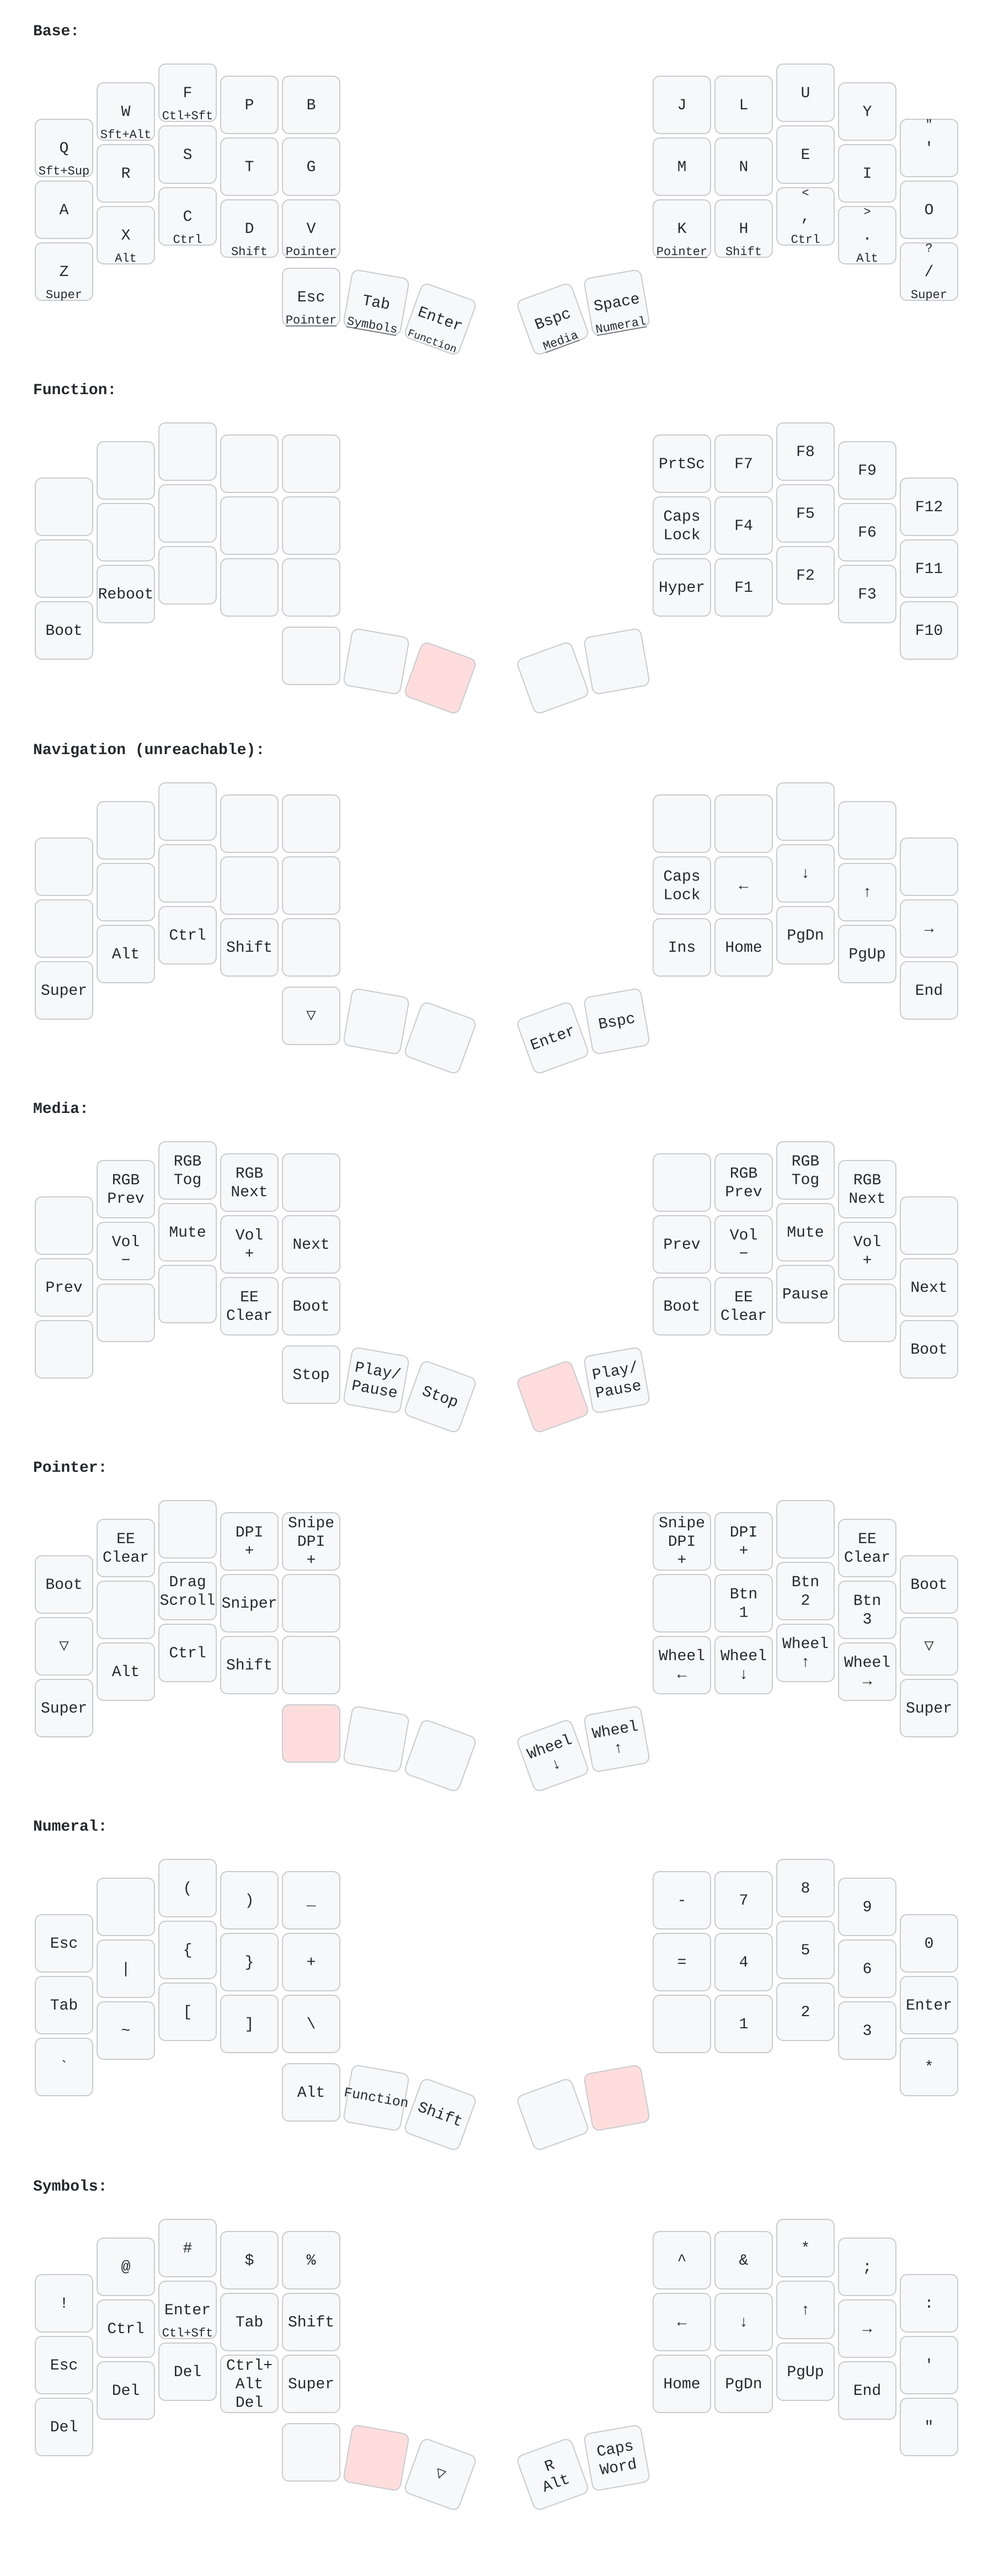
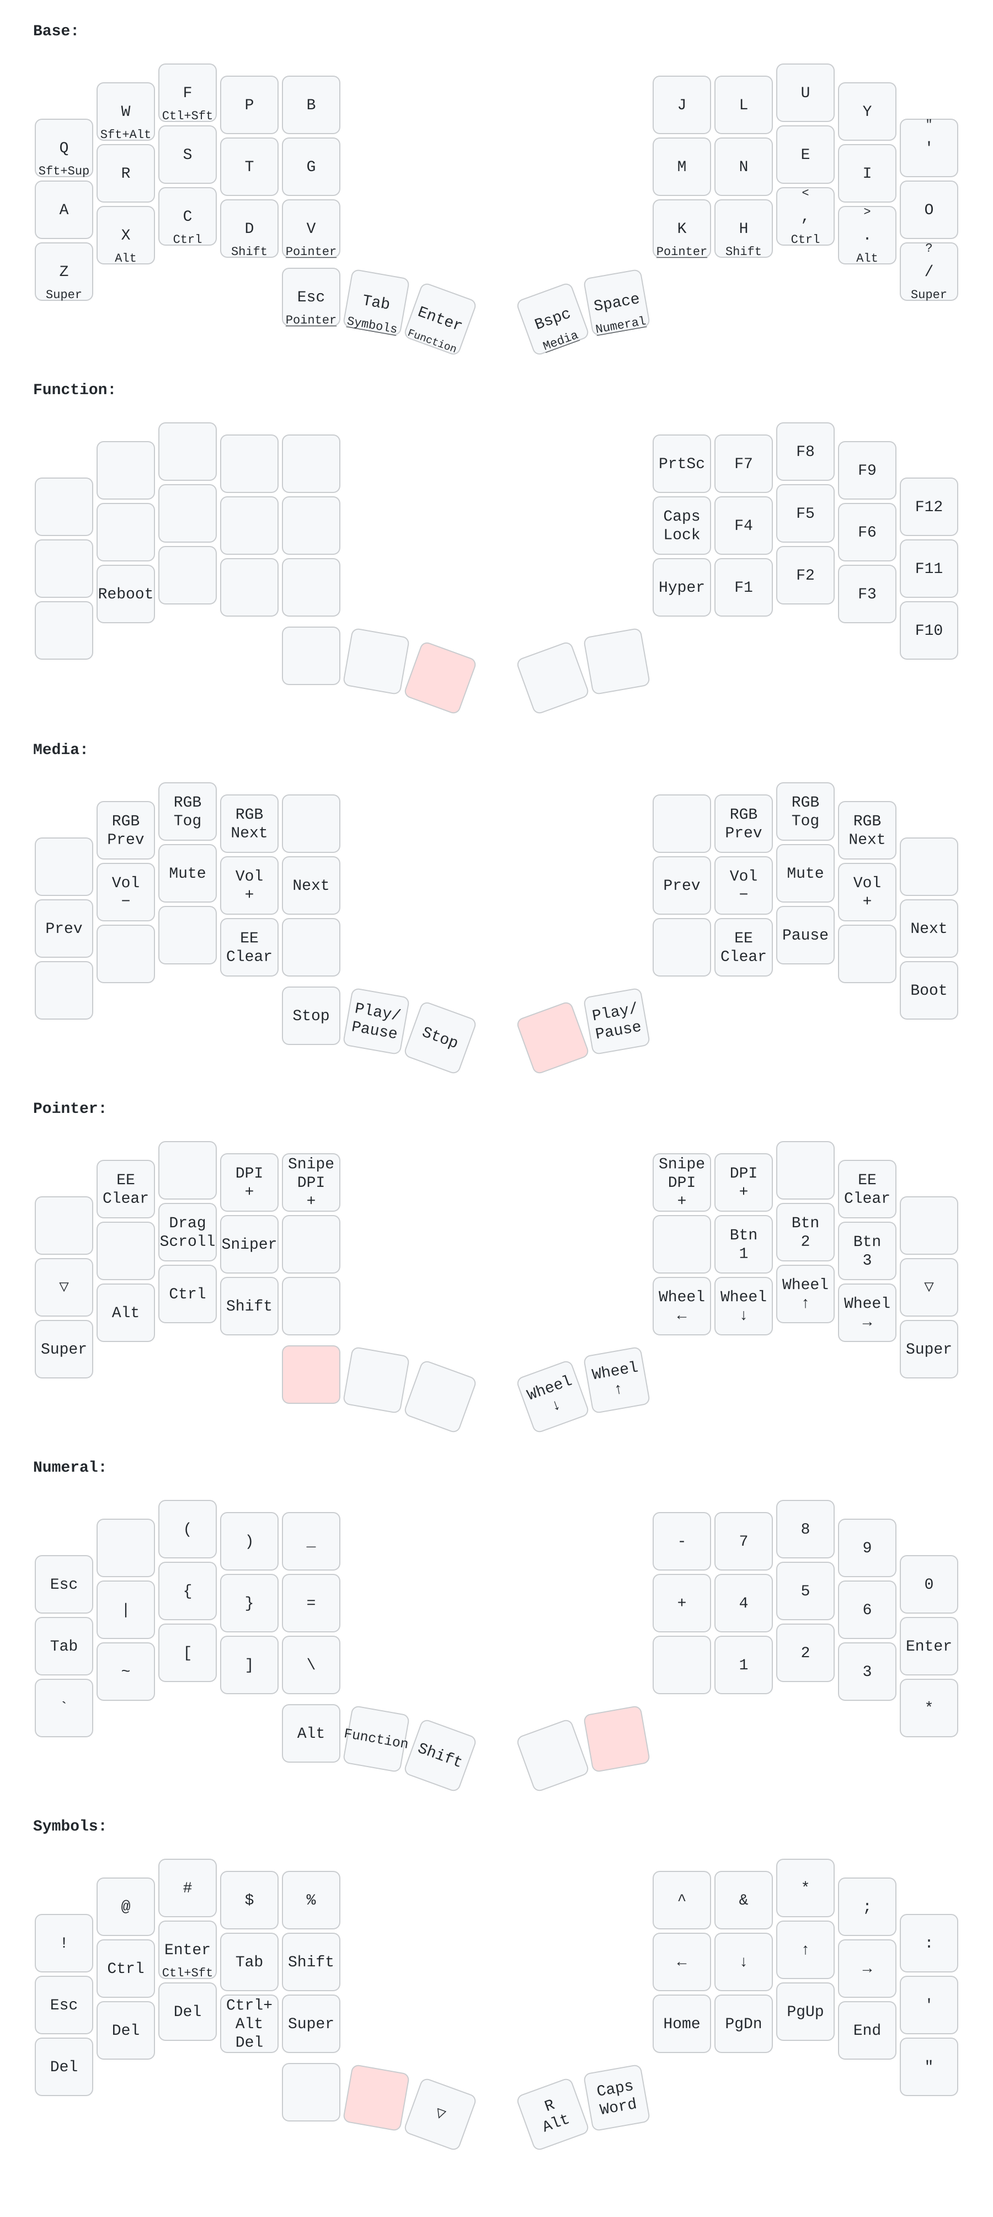
keymap: swap +/=, prune Boot keys, drop Navigation layer
- Numeral: swap + and = -- they sat either side of the home-row gap and
  were consistently reached for in each other's place.

- Boot keys: six QK_BOOT down to one, on the Media layer's bottom-right
  (pinky) key. The left half needs bootmagic anyway since QK_BOOT there
  renders mirrored, so a single key on the master is enough. QK_REBOOT on
  the Function layer is kept -- it reboots the board, it does not enter
  the bootloader, so it carries none of the same risk.

- Navigation layer removed. Nothing bound it (no LT/MO/TO/TG targeted it),
  and Symbols already carries the arrows, Home/End and PgUp/PgDn.

Layers renumber as a result: MEDIA 3->2, POINTER 4->3, NUMERAL 5->4,
SYMBOLS 6->5.

- Disable the auto mouse layer. Raising a layer on trackball movement was
  disruptive in practice, and it was landing on the wrong layer besides:
  AUTO_MOUSE_DEFAULT_LAYER was never set, so it took QMK's default of 1 --
  LAYER_FUNCTION. Now pinned to LAYER_POINTER (3) and switched off in
  keyboard_post_init_user(), which quantum/keyboard.c runs after the
  module's own init, so it wins over whatever EEPROM holds. The call is
  guarded because bkpd_set_auto_mouse_layer_enabled() writes EEPROM.

  Auto precision-mode is unaffected -- the module gates that on a separate
  flag -- and it now correctly follows the pointer layer.

- DYNAMIC_KEYMAP_LAYER_COUNT 7 -> 6 for tidiness (argos' post_config.h
  forces 8 regardless).

keymap.yaml and the rendered diagram updated to match.
[…]

diff --git a/keyboards/bastardkb/charybdis/3x5/keymaps/cdub/keymap.c b/keyboards/bastardkb/charybdis/3x5/keymaps/cdub/keymap.c
@@ -28,7 +28,6 @@
 enum charybdis_keymap_layers {
     LAYER_BASE = 0,
     LAYER_FUNCTION,
-    LAYER_NAVIGATION,
     LAYER_MEDIA,
     LAYER_POINTER,
     LAYER_NUMERAL,
@@ -96,7 +95,7 @@ static uint16_t auto_pointer_layer_timer = 0;
 #define LAYOUT_LAYER_FUNCTION                                                                 \
         _______________DEAD_HALF_ROW_______________,   KC_PSCR, KC_F7, KC_F8, KC_F9, KC_F12, \
         _______________DEAD_HALF_ROW_______________,   KC_CAPS, KC_F4, KC_F5, KC_F6, KC_F11, \
-        QK_BOOT, QK_REBOOT, XXXXXXX, XXXXXXX, XXXXXXX, HYPR(KC_NO), KC_F1, KC_F2, KC_F3, KC_F10, \
+        XXXXXXX, QK_REBOOT, XXXXXXX, XXXXXXX, XXXXXXX, HYPR(KC_NO), KC_F1, KC_F2, KC_F3, KC_F10, \
                       XXXXXXX, XXXXXXX, _______, XXXXXXX, XXXXXXX
 /**
  * \brief Media layer.
@@ -107,29 +106,16 @@ static uint16_t auto_pointer_layer_timer = 0;
 #define LAYOUT_LAYER_MEDIA                                                                    \
     XXXXXXX,RM_PREV, RM_TOGG, RM_NEXT, XXXXXXX, XXXXXXX,RM_PREV, RM_TOGG, RM_NEXT, XXXXXXX, \
     KC_MPRV, KC_VOLD, KC_MUTE, KC_VOLU, KC_MNXT, KC_MPRV, KC_VOLD, KC_MUTE, KC_VOLU, KC_MNXT, \
-    XXXXXXX, XXXXXXX, XXXXXXX,  EE_CLR, QK_BOOT, QK_BOOT,  EE_CLR, KC_PAUS, XXXXXXX, QK_BOOT, \
+    XXXXXXX, XXXXXXX, XXXXXXX,  EE_CLR, XXXXXXX, XXXXXXX,  EE_CLR, KC_PAUS, XXXXXXX, QK_BOOT, \
                       KC_MSTP, KC_MPLY, KC_MSTP, _______, KC_MPLY
 
 /** \brief Mouse emulation and pointer functions. */
 #define LAYOUT_LAYER_POINTER                                                                  \
-    QK_BOOT,  EE_CLR, XXXXXXX, DPI_MOD, S_D_MOD, S_D_MOD, DPI_MOD, XXXXXXX,  EE_CLR, QK_BOOT, \
+    XXXXXXX,  EE_CLR, XXXXXXX, DPI_MOD, S_D_MOD, S_D_MOD, DPI_MOD, XXXXXXX,  EE_CLR, XXXXXXX, \
     _______,  XXXXXXX, DRGSCRL, SNIPING, XXXXXXX, XXXXXXX, MS_BTN1, MS_BTN2, MS_BTN3, _______, \
     ______________BOTTOM_ROW_GACS_L______________, MS_WHLL, MS_WHLD, MS_WHLU, MS_WHLR, KC_LGUI, \
                       _______, XXXXXXX, XXXXXXX, MS_WHLD, MS_WHLU
 
-/**
- * \brief Navigation layer.
- *
- * Primary right-hand layer (left home thumb) is navigation and editing. Cursor
- * keys are on the home position, line and page movement below, clipboard above,
- * caps lock and insert on the inner column. Thumb keys are duplicated from the
- * base layer to avoid having to layer change mid edit and to enable auto-repeat.
- */
-#define LAYOUT_LAYER_NAVIGATION                                                               \
-    _______________DEAD_HALF_ROW_______________, _______________DEAD_HALF_ROW_______________, \
-    _______________DEAD_HALF_ROW_______________, KC_CAPS, KC_LEFT, KC_DOWN,   KC_UP, KC_RGHT, \
-    ______________BOTTOM_ROW_GACS_L______________,  KC_INS, KC_HOME, KC_PGDN, KC_PGUP,  KC_END, \
-                      _______, XXXXXXX, XXXXXXX,  KC_ENT, KC_BSPC
 
 /**
  * \brief Numeral layout.
@@ -140,7 +126,7 @@ static uint16_t auto_pointer_layer_timer = 0;
  */
 #define LAYOUT_LAYER_NUMERAL                                                                  \
     KC_ESC,  XXXXXXX, LSFT(KC_9), LSFT(KC_0), LSFT(KC_MINUS),                          KC_MINUS,  KC_7,  KC_8,  KC_9, KC_0, \
-    KC_TAB,  LSFT(KC_BSLS),  LSFT(KC_LBRC),  LSFT(KC_RBRC),  LSFT(KC_EQUAL),           KC_EQUAL,  KC_4,  KC_5,  KC_6, KC_ENT, \
+    KC_TAB,  LSFT(KC_BSLS),  LSFT(KC_LBRC),  LSFT(KC_RBRC),  KC_EQUAL,           LSFT(KC_EQUAL),  KC_4,  KC_5,  KC_6, KC_ENT, \
     KC_GRAVE,  LSFT(KC_GRAVE),  KC_LBRC,  KC_RBRC,  KC_BSLS,                           XXXXXXX,  KC_1,  KC_2,  KC_3, KC_PAST, \
                                     KC_LALT, MO(LAYER_FUNCTION), KC_LSFT,      XXXXXXX, XXXXXXX
 
@@ -207,12 +193,35 @@ static uint16_t auto_pointer_layer_timer = 0;
 
 #define LAYOUT_wrapper(...) LAYOUT(__VA_ARGS__)
 
+/**
+ * \brief Force the auto mouse layer off.
+ *
+ * Raising the pointer layer whenever the trackball moves proved more
+ * disruptive than useful. The module reads this setting from EEPROM in
+ * keyboard_post_init_bk_pointing_device(), which quantum/keyboard.c runs
+ * *before* keyboard_post_init_user(), so turning it off here reliably wins
+ * regardless of what a previous firmware persisted.
+ *
+ * Guarded so it only writes EEPROM when it actually needs to change --
+ * bkpd_set_auto_mouse_layer_enabled() calls write_bkpd_config_to_eeprom().
+ *
+ * Note this does not affect auto precision-mode, which the module gates on a
+ * separate flag (auto_precision_on_mouse_layer_enabled).
+ */
+bool bkpd_get_auto_mouse_layer_enabled(void);
+void bkpd_set_auto_mouse_layer_enabled(bool enabled);
+
+void keyboard_post_init_user(void) {
+    if (bkpd_get_auto_mouse_layer_enabled()) {
+        bkpd_set_auto_mouse_layer_enabled(false);
+    }
+}
+
 const uint16_t PROGMEM keymaps[][MATRIX_ROWS][MATRIX_COLS] = {
   [LAYER_BASE] = LAYOUT_wrapper(
     POINTER_MOD(BOTTOM_ROW_MOD_GACS(LAYOUT_LAYER_BASE))
   ),
   [LAYER_FUNCTION] = LAYOUT_wrapper(LAYOUT_LAYER_FUNCTION),
-  [LAYER_NAVIGATION] = LAYOUT_wrapper(LAYOUT_LAYER_NAVIGATION),
   [LAYER_MEDIA] = LAYOUT_wrapper(LAYOUT_LAYER_MEDIA),
   [LAYER_NUMERAL] = LAYOUT_wrapper(LAYOUT_LAYER_NUMERAL),
   [LAYER_POINTER] = LAYOUT_wrapper(LAYOUT_LAYER_POINTER),

diff --git a/keyboards/bastardkb/charybdis/3x5/keymaps/cdub/config.h b/keyboards/bastardkb/charybdis/3x5/keymaps/cdub/config.h
@@ -18,7 +18,7 @@
 
 #ifdef VIA_ENABLE
 /* VIA configuration. */
-#    define DYNAMIC_KEYMAP_LAYER_COUNT 7
+#    define DYNAMIC_KEYMAP_LAYER_COUNT 6
 #endif // VIA_ENABLE
 
 #ifndef __arm__
@@ -54,3 +54,18 @@
 #    undef RGBLIGHT_LED_COUNT
 #endif
 #define RGBLIGHT_LED_COUNT 36
+
+/* Auto mouse layer.
+ *
+ * QMK defaults AUTO_MOUSE_DEFAULT_LAYER to 1, which here is LAYER_FUNCTION --
+ * so trackball motion would raise the wrong layer, and bk_pointing_device ties
+ * auto-sniping to this same layer. Point it at LAYER_POINTER.
+ *
+ * NOTE: this is a raw index and cannot reference the enum in keymap.c. If the
+ * layer order changes, update it here too. Currently:
+ *   0 BASE  1 FUNCTION  2 MEDIA  3 POINTER  4 NUMERAL  5 SYMBOLS
+ */
+#ifdef AUTO_MOUSE_DEFAULT_LAYER
+#    undef AUTO_MOUSE_DEFAULT_LAYER
+#endif
+#define AUTO_MOUSE_DEFAULT_LAYER 3
